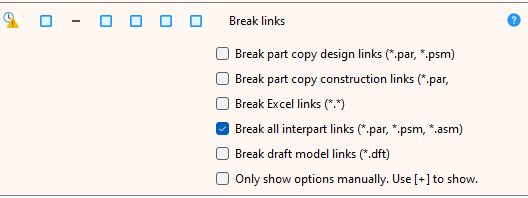
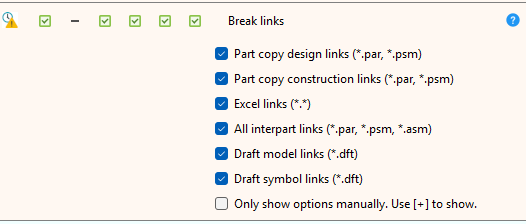
Documentation

diff --git a/HelpTopics.md b/HelpTopics.md
@@ -783,19 +783,21 @@ Breaks external links to a file.  This is irreversible, so you know, think about
 
 The command options are explained below. 
 
-`Break part copy design links` and `Break part copy construction links` remove links created with the `Part Copy` command. The geometry remains intact.
+`Part copy design links` and `Part copy construction links` remove links created with the `Part Copy` command. The geometry remains intact.
 
-`Break Excel links` removes Excel references from `Variable` and `Dimension` formulas. In both cases, the value remains as it was before the link was removed.
+`Excel links` removes Excel references from `Variable` and `Dimension` formulas. In both cases, the value remains as it was before the link was removed.
 
-`Break all interpart links` is the sledgehammer option. It removes the links cited above. It also removes `included links` in profiles and `pasted links` in the variable table. It might do more.  The complete API documentation (below) is, uh, short on details. 
+`All interpart links` is the sledgehammer option. It removes the links cited above. It also removes `included links` in profiles and `pasted links` in the variable table. It might do more.  The complete API documentation (below) is, uh, short on details. 
 
 ![Break all interpart links](My%20Project/media/break_all_interpart_links_documentation.png)
 
-`Break draft model links` converts drawing views to 2D, removing external references in the process. In testing it quickly became apparent that this operation also converts Property text to blank lines in Callouts. 
+`Draft model links` converts drawing views to 2D, removing external references in the process. In testing it quickly became apparent that this operation also converts Property text to blank lines in Callouts. 
 
 ![Title Block](My%20Project/media/title_block.png)
 
 Luckily, Solid Edge can take care of that. That's in the program, but only for Callouts. If you have TextBoxes, Blocks, or other objects that use Property text, let me know. I can try to address those in a future release. 
+
+`Draft symbol links` converts symbol blocks to geometry, removing external references in the process. 
 
 </details>
 

diff --git a/README.md b/README.md
@@ -783,19 +783,21 @@ Breaks external links to a file.  This is irreversible, so you know, think about
 
 The command options are explained below. 
 
-`Break part copy design links` and `Break part copy construction links` remove links created with the `Part Copy` command. The geometry remains intact.
+`Part copy design links` and `Part copy construction links` remove links created with the `Part Copy` command. The geometry remains intact.
 
-`Break Excel links` removes Excel references from `Variable` and `Dimension` formulas. In both cases, the value remains as it was before the link was removed.
+`Excel links` removes Excel references from `Variable` and `Dimension` formulas. In both cases, the value remains as it was before the link was removed.
 
-`Break all interpart links` is the sledgehammer option. It removes the links cited above. It also removes `included links` in profiles and `pasted links` in the variable table. It might do more.  The complete API documentation (below) is, uh, short on details. 
+`All interpart links` is the sledgehammer option. It removes the links cited above. It also removes `included links` in profiles and `pasted links` in the variable table. It might do more.  The complete API documentation (below) is, uh, short on details. 
 
 ![Break all interpart links](My%20Project/media/break_all_interpart_links_documentation.png)
 
-`Break draft model links` converts drawing views to 2D, removing external references in the process. In testing it quickly became apparent that this operation also converts Property text to blank lines in Callouts. 
+`Draft model links` converts drawing views to 2D, removing external references in the process. In testing it quickly became apparent that this operation also converts Property text to blank lines in Callouts. 
 
 ![Title Block](My%20Project/media/title_block.png)
 
 Luckily, Solid Edge can take care of that. That's in the program, but only for Callouts. If you have TextBoxes, Blocks, or other objects that use Property text, let me know. I can try to address those in a future release. 
+
+`Draft symbol links` converts symbol blocks to geometry, removing external references in the process. 
 
 </details>
 
